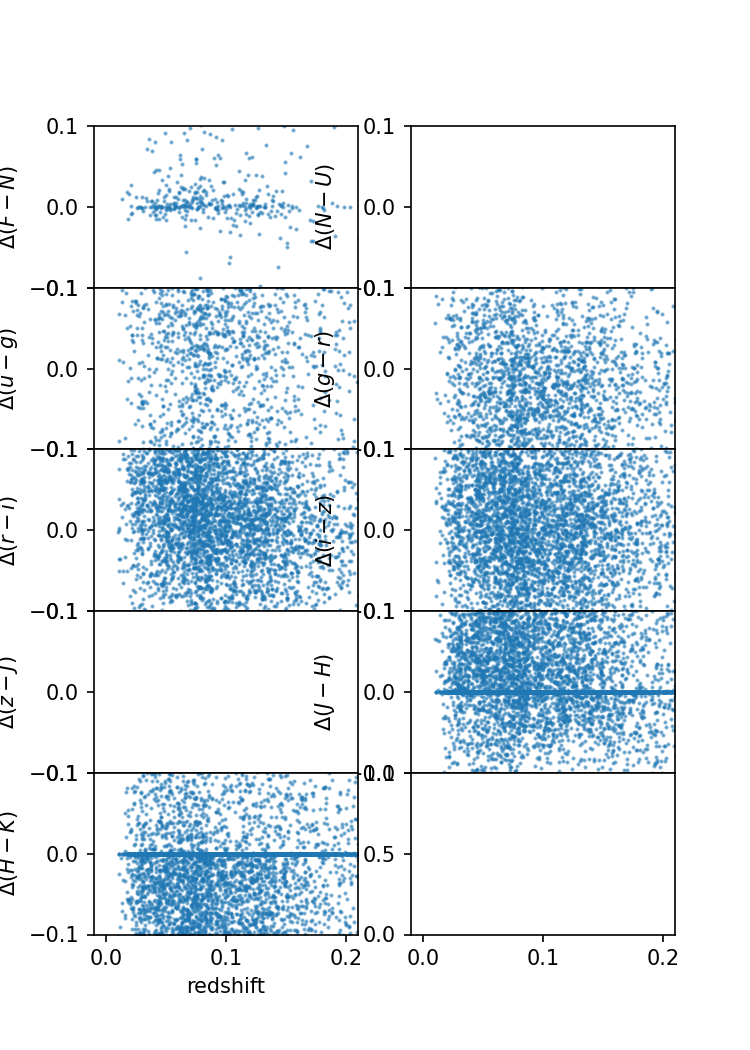
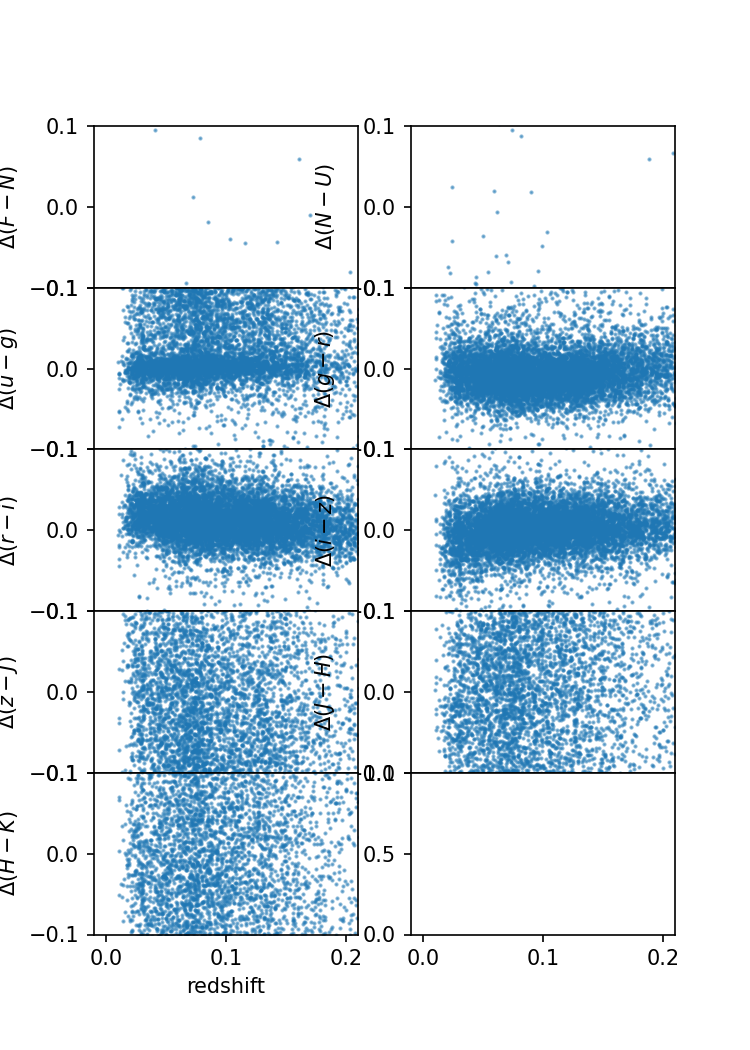
clean up dealing with bad values

Changed region(s): [[0.1533, 0.2743, 0.4907, 0.9143], [0.5827, 0.2743, 0.92, 0.7619], [0.1533, 0.1219, 0.46, 0.2438]]

diff --git a/python/kcorrect/kcorrect.py b/python/kcorrect/kcorrect.py
@@ -308,7 +308,22 @@ class Kcorrect(kcorrect.fitter.Fitter):
                                            coeffs=coeffs,
                                            band_shift=band_shift)
 
-        kcorrect = - 2.5 * np.log10(maggies_in[..., self.imap] / maggies_out)
+        # Now carefully take the K-correction (avoiding cases
+        # where the coefficients are zero)
+        kcorrect = np.zeros(maggies_out.shape, dtype=np.float32)
+        if(maggies_out.ndim > 1):
+            # check if coefficients are ever zero
+            notzero = coeffs.sum(axis=-1) > 0
+            nz_maggies_in = maggies_in[notzero, :]
+            kcorrect[notzero, :] = (- 2.5 *
+                                    np.log10(nz_maggies_in[:, self.imap] /
+                                             maggies_out[notzero, :]))
+        else:
+            notzero = coeffs.sum(axis=-1) > 0
+            if(notzero):
+                kcorrect = - 2.5 * np.log10(maggies_in[self.imap] /
+                                            maggies_out)
+
         return(kcorrect)
 
     def absmag(self, maggies=None, ivar=None, redshift=None, coeffs=None,
@@ -464,13 +479,6 @@ class KcorrectSDSS(Kcorrect):
                  responses_out=None, responses_map=None,
                  redshift_range=[0., 2.], nredshift=4000,
                  abcorrect=True, cosmo=None):
-
-        # Read in templates
-        if(templates is None):
-            filename = os.path.join(os.getenv('KCORRECT_DIR'), 'python',
-                                    'kcorrect', 'data', 'templates',
-                                    'kcorrect-default-v4.fits')
-            templates = kcorrect.template.Template(filename=filename)
 
         # Initatialize using Kcorrect initialization
         super().__init__(responses=responses, templates=templates,
@@ -666,13 +674,6 @@ class KcorrectGST(Kcorrect):
                  templates=None, responses_out=None, responses_map=None,
                  redshift_range=[0., 2.], nredshift=4000,
                  abcorrect=False, cosmo=None):
-
-        # Read in templates
-        if(templates is None):
-            filename = os.path.join(os.getenv('KCORRECT_DIR'), 'python',
-                                    'kcorrect', 'data', 'templates',
-                                    'kcorrect-default-v4.fits')
-            templates = kcorrect.template.Template(filename=filename)
 
         # Initatialize using Kcorrect initialization
         super().__init__(responses=responses, templates=templates,

diff --git a/python/kcorrect/response.py b/python/kcorrect/response.py
@@ -85,13 +85,13 @@ class Response(object):
         response function
 
     solar_magnitude : np.float32
-        absolute magnitude of Sun through filter
+        absolute magnitude of Sun through filter, or None
 
     solar_sed : kcorrect.template.SED object
         SED associated with Sun for solar_magnitude
 
     vega2ab : np.float32
-        magnitude offset from Vega to AB (m_AB - m_Vega)
+        magnitude offset from Vega to AB (m_AB - m_Vega), or None
 
     vega_sed : kcorrect.template.SED object
         SED associated with Vega for vega_magnitude
@@ -342,6 +342,9 @@ class Response(object):
         -----
 
         Uses lcbsun.ori model from Lejeune et al (1997)
+
+        If the response function is outside the model wavelength range,
+        solar_magnitude is set to None.
 """
         if(self.solar_sed is None):
             sunfile = os.path.join(os.getenv('KCORRECT_DIR'),
@@ -362,7 +365,10 @@ class Response(object):
 
         solar_maggies = self.project(sed=self.solar_sed)
 
-        self.solar_magnitude = - 2.5 * np.log10(solar_maggies)
+        if(solar_maggies > 0):
+            self.solar_magnitude = - 2.5 * np.log10(solar_maggies)
+        else:
+            self.solar_magnitude = None
 
         return
 
@@ -373,6 +379,9 @@ class Response(object):
         -----
 
         Uses lcbvega.ori model from Lejeune et al (1997)
+
+        If the response function is outside the model wavelength range,
+        vega2ab is set to None.
 """
         if(self.vega_sed is None):
             vegafile = os.path.join(os.getenv('KCORRECT_DIR'),
@@ -393,5 +402,8 @@ class Response(object):
             self.vega_sed.info = info
 
         vega_maggies = self.project(sed=self.vega_sed)
-        self.vega2ab = - 2.5 * np.log10(vega_maggies)
+        if(vega_maggies > 0):
+            self.vega2ab = - 2.5 * np.log10(vega_maggies)
+        else:
+            self.vega2ab = None
         return

diff --git a/python/kcorrect/utils.py b/python/kcorrect/utils.py
@@ -182,6 +182,56 @@ def sdss_ab_correct(maggies=None, ivar=None,
         return(ab_maggies)
 
 
+def error_floor(floor=None, maggies=None, ivar=None):
+    """Calculate new inverse variance with fractional error floors
+
+    Parameters
+    ----------
+
+    floor : ndarray of np.float32
+        [Nr] fractional error floor for each response
+
+    maggies : ndarray of np.float32
+        [N, Nr] or [Nr] array of maggies
+
+    ivar : ndarray of np.float32
+        [N, Nr] or [Nr] array of inverse variance of maggies
+
+    Returns
+    -------
+
+    ivar : ndarray of np.float32
+        [N, Nr] or [Nr] array of inverse variances
+"""
+    if(maggies.ndim == 1):
+        array = False
+    else:
+        array = True
+
+    if(maggies.shape[-1] != floor.shape[0]):
+        raise("floor must have same number of responses as maggies")
+
+    if(maggies.shape != ivar.shape):
+        raise("maggies and ivar must be same shape")
+
+    if(array):
+        for i in np.arange(floor.size):
+            iok = np.where(ivar[:, i] > 0.)[0]
+            if(len(iok) > 0):
+                ferr = 1. / (maggies[iok, i] * np.sqrt(ivar[iok, i]))
+                ioklow = iok[np.where(ferr < floor[i])[0]]
+                ivar[ioklow, i] = 1. / (np.abs(maggies[ioklow, i]) *
+                                        floor[i])**2
+    else:
+        for i in np.arange(floor.size):
+            if(ivar[i] > 0.):
+                ferr = 1. / (maggies[i] * np.sqrt(ivar[i]))
+                if(ferr < floor[i]):
+                    ivar[i] = 1. / (np.abs(maggies[i]) * floor[i])**2
+
+    return(ivar)
+
+
 def sdss_asinh_to_maggies(mag=None, mag_err=None, extinction=None):
     """Calculate maggies and ivar based on catalog parameters
 

diff --git a/python/kcorrect/fitter.py b/python/kcorrect/fitter.py
@@ -9,6 +9,7 @@ import numpy as np
 import scipy.interpolate as interpolate
 import scipy.optimize as optimize
 import kcorrect.response
+import multiprocessing
 
 
 class Fitter(object):
@@ -117,15 +118,6 @@ class Fitter(object):
 
         This method just returns maggies and/or ivar unchanged,
         as for this object we expect AB maggies on input.
-
-        Uses the AB conversions produced by D. Eisenstein, in his
-        message sdss-calib/1152
-
-            u(AB,2.5m) = u(database, 2.5m) - 0.036
-            g(AB,2.5m) = g(database, 2.5m) + 0.012
-            r(AB,2.5m) = r(database, 2.5m) + 0.010
-            i(AB,2.5m) = i(database, 2.5m) + 0.028
-            z(AB,2.5m) = z(database, 2.5m) + 0.040
 
         fit_coeffs() calls this on its inputs.
 """
